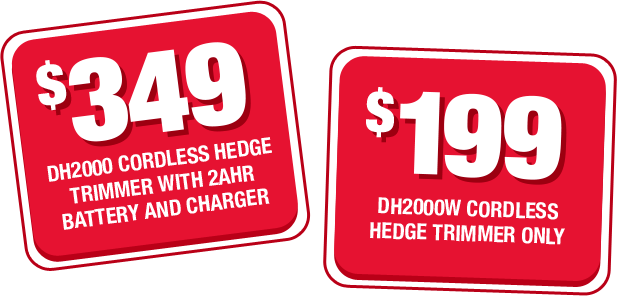
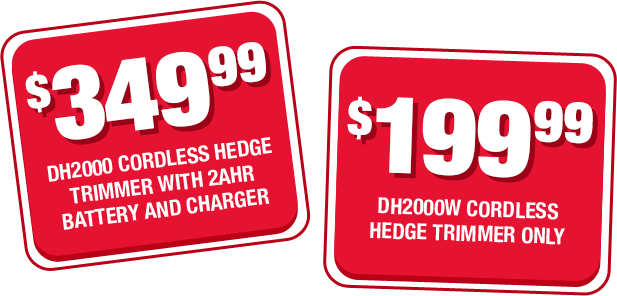
updating prices on images

Changed region(s): [[0.5543, 0.3041, 0.9854, 0.6385], [0.0308, 0.1216, 0.4619, 0.5169]]

diff --git a/eb6000/index.html b/eb6000/index.html
@@ -96,7 +96,7 @@
 						<div class="col-sm-6 pull-left">
 							<h2>Two EB6000</h2>
 							<h4>Configurations Available</h4>
-							<img class="price-stamps" src="/images/price-stamps-eb6000.png" alt="$399 EB6000 Cordless Handheld Blower With 4AHR Battery and Standard Charger | $199 EB6000W Cordless Handheld Blower Only" />
+							<img class="price-stamps" src="/images/price-stamps-eb6000.png" alt="$399.99 EB6000 Cordless Handheld Blower With 4AHR Battery and Standard Charger | $199.99 EB6000W Cordless Handheld Blower Only" />
 							<a href="#" class="btn btn-green">Find a Dealer</a>
 						</div>
 					</div>

diff --git a/dh2000/index.html b/dh2000/index.html
@@ -96,7 +96,7 @@
 						<div class="col-sm-6 pull-left">
 							<h2>Two DH2000</h2>
 							<h4>Configurations Available</h4>
-							<img class="price-stamps" src="/images/price-stamps-dh2000.png" alt="$349 DH2000 Cordless Hedge Trimmer With 2AHR Battery and Charger | $199 DH2000W Cordless Hedge Trimmer Only" />
+							<img class="price-stamps" src="/images/price-stamps-dh2000.png" alt="$349.99 DH2000 Cordless Hedge Trimmer With 2AHR Battery and Charger | $199.99 DH2000W Cordless Hedge Trimmer Only" />
 							<a href="#" class="btn btn-green">Find a Dealer</a>
 						</div>
 					</div>

diff --git a/t3000/index.html b/t3000/index.html
@@ -96,7 +96,7 @@
 						<div class="col-sm-6 pull-left">
 							<h2>Two T3000</h2>
 							<h4>Configurations Available</h4>
-							<img class="price-stamps" src="/images/price-stamps-t3000.png" alt="$349 T3000 Cordless String Trimmer With 2AHR Battery and Charger | $199 T3000W Cordless String Trimmer Only" />
+							<img class="price-stamps" src="/images/price-stamps-t3000.png" alt="$349.99 T3000 Cordless String Trimmer With 2AHR Battery and Charger | $199.99 T3000W Cordless String Trimmer Only" />
 							<a href="#" class="btn btn-green">Find a Dealer</a>
 						</div>
 					</div>
